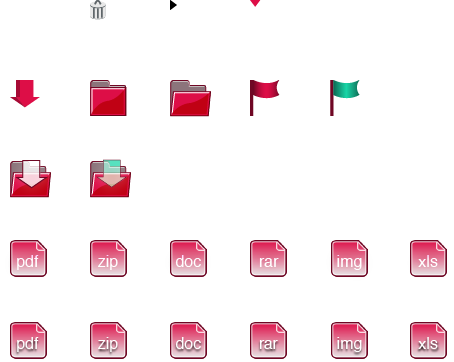
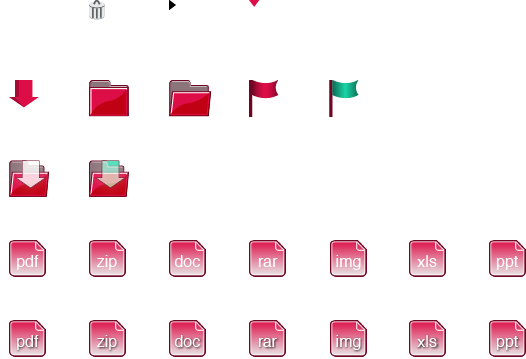
fixed file upload tooltip font + images - story 48

diff --git a/public/styles/styles.css b/public/styles/styles.css
@@ -2218,12 +2218,12 @@ textarea{
 .filebrowsericon{
     background-image: url("/img/icons.png");
     background-repeat: no-repeat;
-    height: 48px;
-    width: 48px;
+    height: 37px;
+    width: 42px;
 }
 
 .filebrowsericon.folder{
-    background-position: -85px -75px;
+    background-position: -89px -80px;
 }
 
 
@@ -2247,7 +2247,7 @@ textarea{
 }
 
 .filebrowser_data_tr:hover .filebrowsericon.folder{
-    background-position: -165px -75px;
+    background-position: -169px -80px;;
 }
 
 .uploadfirststep_button * .files_positioner{
@@ -2312,7 +2312,12 @@ textarea{
 }
 
 .filebrowsertooltip_img{
-    margin: 0 auto; width:16px; height:16px;
+    background-image: url("/img/icons.png");
+    background-position: -245px 3px;
+    background-repeat: no-repeat;
+    height: 16px;
+    margin: 0 auto;
+    width: 16px;
 }
 
 #filebrowsertooltip_folderpapa{
@@ -2369,37 +2374,40 @@ textarea{
 }
 
 .filebrowsericon.pdf{
-    background-position: -5px -234px;
+    background-position: -9px -240px;
 }
 
 .filebrowser_data_tr:hover .filebrowsericon.pdf{
-    background-position: -5px -316px;
+    background-position: -9px -320px;
 }
 .filebrowsericon.zip{
-    background-position: -85px -234px;
+    background-position: -89px -240px;
 }
 .filebrowser_data_tr:hover .filebrowsericon.zip{
-    background-position: -85px -316px;
+    background-position: -89px -320px;
 }
 
 
 .filebrowsericon.rar{
-    background-position: -245px -234px;
+    background-position: -249px -240px;
 }
 .filebrowsericon.doc , .filebrowsericon.docx{
-    background-position: -165px -234px;
+    background-position: -169px -240px;
 }
 
 .filebrowser_data_tr:hover .filebrowsericon.doc,
 .filebrowser_data_tr:hover .filebrowsericon.docx{
-    background-position: -165px -316px;
+    background-position: -169px -320px;
 }
 
 .filebrowsericon.xls , .filebrowsericon.xlsx{
-    background-position: -405px -235px;
+    background-position: -409px -240px;
+}
+.filebrowser_data_tr:hover .filebrowsericon.xls ,.filebrowser_data_tr:hover .filebrowsericon.xlsx{
+    background-position: -409px -320px;
 }
 .filebrowsericon.gif , .filebrowsericon.bmp , .filebrowsericon.jpg , .filebrowsericon.png{
-    background-position: -325px -235px;
+    background-position: -329px -240px;
 }
 
 .filebrowsericon.gif:hover , 
@@ -2410,7 +2418,7 @@ textarea{
 .filebrowser_data_tr:hover .filebrowsericon.jpg ,
 .filebrowser_data_tr:hover .filebrowsericon.bmp ,
 .filebrowser_data_tr:hover .filebrowsericon.gif{
-    background-position: -325px -317px;
+    background-position: -329px -320px;
 }
 
 .filebrowserflag:hover{
@@ -2419,12 +2427,22 @@ textarea{
 
 .filebrowsericon.rar:hover,
 .filebrowser_data_tr:hover .filebrowsericon.rar{
-    background-position: -245px -316px;
+    background-position: -249px -320px;
 }
 
 .filebrowsericon.xls:hover, 
 .filebrowsericon.xlsx:hover, 
 .filebrowser_data_tr:hover .filebrowsericon.xlsx{
-    background-position: -405px -317px;
+    background-position: -409px -320px;
 }
 
+.filebrowsericon.pptx, .filebrowsericon.ppt{
+    background-position: -489px -240px;
+}
+.filebrowser_data_tr:hover .filebrowsericon.pptx, .filebrowser_data_tr:hover .filebrowsericon.ppt{
+    background-position: -489px -320px;
+}
+
+.filebrowsertooltip_text span{
+    color: white;
+}

diff --git a/public/js/jquery.ksfunctions.js b/public/js/jquery.ksfunctions.js
@@ -1170,12 +1170,12 @@ function ksInitUpload(sId , iSerial , iNumDownloads , iMaxFileSize , sAcceptFile
     })
     .bind('fileuploadfailed', function (e, data) 
     {
-        alert('5');
+        //alert('5');
         
     })
     .bind('fileuploaddestroyed', function (e, data) 
     {
-        alert('6');
+        //alert('6');
         
     })
     .bind('fileuploaddone', function (e, data) {
